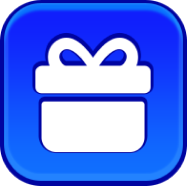
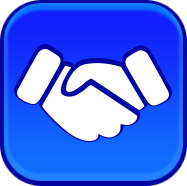
feat(de-63): new ui for spin buttons

Changed region(s): [[0.0535, 0.1613, 0.9358, 0.8333]]

diff --git a/app/src/pages/Game/components/action-buttons/InfoButtons.js b/app/src/pages/Game/components/action-buttons/InfoButtons.js
@@ -5,7 +5,7 @@ import RankButton from './RankButton';
 import configs from '../../configs/configs';
 import { fontFamilies } from '../../../../utils/styles';
 
-const { width } = configs;
+const { width, height } = configs;
 
 const px = 40;
 const buttonSize = 186;
@@ -35,12 +35,12 @@ class InfoButtons extends Phaser.GameObjects.Container {
       { sound: 'button-1' }
     );
 
-    this.referralButton = new Button(
+    this.rewardButton = new Button(
       scene,
       buttonSize / 2 + px,
       y + verticalGap,
-      'button-referral',
-      'button-referral-pressed',
+      'button-reward',
+      'button-reward-pressed',
       () => {
         if (isSimulator) return;
         this.togglePopupReward();
@@ -74,8 +74,8 @@ class InfoButtons extends Phaser.GameObjects.Container {
 
     this.badge = scene.add
       .image(
-        this.referralButton.x + this.referralButton.width / 2 - 10,
-        this.referralButton.y - this.referralButton.height / 2 + 10,
+        this.rewardButton.x + this.rewardButton.width / 2 - 10,
+        this.rewardButton.y - this.rewardButton.height / 2 + 10,
         'badge'
       )
       .setOrigin(0.5, 0.5);
@@ -84,65 +84,69 @@ class InfoButtons extends Phaser.GameObjects.Container {
       .text(this.badge.x, this.badge.y, '0', { fontFamily: fontFamilies.extraBold, fontSize: '46px', color: '#fff' })
       .setOrigin(0.5, 0.5);
 
-    this.popupReward = scene.add
-      .image(
-        this.referralButton.x - this.referralButton.width / 2,
-        this.referralButton.y - this.referralButton.height / 2,
-        'popup-reward'
-      )
-      .setOrigin(0, 0);
+    this.arrow = scene.add
+      .sprite(this.rewardButton.x, this.rewardButton.y + this.rewardButton.height / 2, 'arrow-down-gold')
+      .setOrigin(0.5, 0.5);
 
-    const centerX = this.popupReward.x + this.popupReward.width / 2;
-    const handShakeIconY = this.popupReward.y + this.popupReward.height / 2 - 100;
-    this.handShakeIcon = scene.add.image(centerX, handShakeIconY, 'hand-shake').setOrigin(0.5, 0.5);
-    this.handShakeText = scene.add
-      .text(centerX, this.handShakeIcon.y + this.handShakeIcon.height / 2 + 50, 'Referrals', {
-        fontFamily: fontFamilies.extraBold,
+    this.referralButton = new Button(
+      scene,
+      buttonSize / 2 + px,
+      y + 2 * verticalGap,
+      'button-referral',
+      'button-referral-pressed',
+      () => {
+        if (isSimulator) return;
+        this.openReferralPopup();
+      },
+      { sound: 'button-1' }
+    );
+
+    this.dailySpinButton = new Button(
+      scene,
+      buttonSize / 2 + px,
+      y + 3 * verticalGap,
+      'button-daily-spin',
+      'button-daily-spin-pressed',
+      () => {
+        if (isSimulator) return;
+        this.openDailySpinPopup();
+      },
+      { sound: 'button-1' }
+    );
+
+    this.referralText = scene.add
+      .text(this.referralButton.x + this.referralButton.width / 2 + 50, this.referralButton.y, 'Referrals', {
         fontSize: '46px',
+        fontFamily: fontFamilies.extraBold,
         color: '#fff',
       })
-      .setOrigin(0.5, 0.5);
-    this.handShakeText.setStroke('#6F0132', 10);
+      .setOrigin(0, 0.5);
 
-    this.handShakeIcon.setInteractive().on(Phaser.Input.Events.GAMEOBJECT_POINTER_DOWN, () => {
-      this.openReferralPopup();
-    });
-    this.handShakeText.setInteractive().on(Phaser.Input.Events.GAMEOBJECT_POINTER_DOWN, () => {
-      this.openReferralPopup();
-    });
-
-    this.dailySpinIcon = scene.add.image(centerX, this.handShakeText.y + 150, 'daily-spin').setOrigin(0.5, 0.5);
     this.dailySpinText = scene.add
-      .text(centerX, this.dailySpinIcon.y + this.dailySpinIcon.height / 2 + 50, 'Daily Spin', {
-        fontFamily: fontFamilies.extraBold,
+      .text(this.dailySpinButton.x + this.dailySpinButton.width / 2 + 50, this.dailySpinButton.y, 'Daily Spin', {
         fontSize: '46px',
+        fontFamily: fontFamilies.extraBold,
         color: '#fff',
       })
-      .setOrigin(0.5, 0.5);
-    this.dailySpinText.setStroke('#6F0132', 10);
+      .setOrigin(0, 0.5);
 
-    this.dailySpinIcon.setInteractive().on(Phaser.Input.Events.GAMEOBJECT_POINTER_DOWN, () => {
-      this.openDailySpinPopup();
-    });
-    this.dailySpinText.setInteractive().on(Phaser.Input.Events.GAMEOBJECT_POINTER_DOWN, () => {
-      this.openDailySpinPopup();
-    });
+    this.background = scene.add.rectangle(0, 0, width, height, 0x260343, 0.8).setOrigin(0, 0).setVisible(false);
 
     this.hideBadge();
     this.hidePopupReward();
 
-    this.add(this.popupReward);
-    this.add(this.handShakeIcon);
-    this.add(this.handShakeText);
-    this.add(this.dailySpinIcon);
-    this.add(this.dailySpinText);
-
     this.add(this.settingButton);
-    this.add(this.referralButton);
     this.add(this.rankButton);
     this.add(this.portfolioButton);
+    this.add(this.background);
+    this.add(this.rewardButton);
     this.add(this.badge);
     this.add(this.badgeText);
+    this.add(this.arrow);
+    this.add(this.referralButton);
+    this.add(this.dailySpinButton);
+    this.add(this.referralText);
+    this.add(this.dailySpinText);
 
     scene.game.events.on(events.updateBadgeNumber, ({ numberOfSpins }) => {
       if (!numberOfSpins) {
@@ -171,27 +175,25 @@ class InfoButtons extends Phaser.GameObjects.Container {
   }
 
   hidePopupReward() {
-    if (this.popupReward) {
-      this.popupReward.setVisible(false);
-      this.handShakeIcon?.setVisible(false);
-      this.handShakeText?.setVisible(false);
-      this.dailySpinIcon?.setVisible(false);
-      this.dailySpinText?.setVisible(false);
-    }
+    this.referralButton?.setVisible(false);
+    this.dailySpinButton?.setVisible(false);
+    this.referralText?.setVisible(false);
+    this.dailySpinText?.setVisible(false);
+    this.background?.setVisible(false);
+    this.arrow?.setTexture('arrow-down-gold');
   }
 
   showPopupReward() {
-    if (this.popupReward) {
-      this.popupReward.setVisible(true);
-      this.handShakeIcon?.setVisible(true);
-      this.handShakeText?.setVisible(true);
-      this.dailySpinIcon?.setVisible(true);
-      this.dailySpinText?.setVisible(true);
-    }
+    this.referralButton?.setVisible(true);
+    this.dailySpinButton?.setVisible(true);
+    this.referralText?.setVisible(true);
+    this.dailySpinText?.setVisible(true);
+    this.background?.setVisible(true);
+    this.arrow?.setTexture('arrow-up-gold');
   }
 
   togglePopupReward() {
-    if (this.popupReward?.visible) {
+    if (this.referralButton?.visible) {
       this.hidePopupReward();
     } else {
       this.showPopupReward();

diff --git a/app/src/pages/Game/scenes/LoadingScene.js b/app/src/pages/Game/scenes/LoadingScene.js
@@ -147,7 +147,6 @@ class LoadingScene extends Phaser.Scene {
     this.load.image('popup-goon-price', '/images/popup-goon-price.png');
     this.load.image('popup-spin', '/images/popup-spin.png');
     this.load.image('popup-swap', '/images/popup-swap.png');
-    this.load.image('popup-reward', '/images/popup-reward.png');
 
     this.load.image('ribbon-welcome', '/images/ribbon-welcome.png');
 
@@ -179,8 +178,6 @@ class LoadingScene extends Phaser.Scene {
     this.load.image('spin-reward-point', '/images/spin-reward-point.png');
     this.load.image('spin-reward-glow-fx', '/images/spin-reward-glow-fx.png');
     this.load.image('swap-switch-container', '/images/swap-switch-container.png');
-    this.load.image('hand-shake', '/images/hand-shake.png');
-    this.load.image('daily-spin', '/images/daily-spin.png');
 
     this.load.image('button-blue', '/images/button-blue.png');
     this.load.image('button-blue-pressed', '/images/button-blue-pressed.png');
@@ -253,6 +250,10 @@ class LoadingScene extends Phaser.Scene {
     this.load.image('button-spin-claim', '/images/button-spin-claim.png');
     this.load.image('button-spin-claim-pressed', '/images/button-spin-claim-pressed.png');
     this.load.image('button-spin-disabled', '/images/button-spin-disabled.png');
+    this.load.image('button-reward', '/images/button-reward.png');
+    this.load.image('button-reward-pressed', '/images/button-reward-pressed.png');
+    this.load.image('button-daily-spin', '/images/button-daily-spin.png');
+    this.load.image('button-daily-spin-pressed', '/images/button-daily-spin-pressed.png');
 
     this.load.image('button-buy-safehouse', '/images/button-buy-safehouse.png');
     this.load.image('button-buy-safehouse-pressed', '/images/button-buy-safehouse-pressed.png');
@@ -271,6 +272,8 @@ class LoadingScene extends Phaser.Scene {
     this.load.image('deploy-now', '/images/deploy-now.png');
     this.load.image('tooltip-next-war', '/images/tooltip-next-war.png');
     this.load.image('badge', '/images/badge.png');
+    this.load.image('arrow-down-gold', '/images/arrow-down-gold.png');
+    this.load.image('arrow-up-gold', '/images/arrow-up-gold.png');
 
     this.load.image('text-container', '/images/text-container.png');
     this.load.image('text-container-outlined', '/images/text-container-outlined.png');

diff --git a/app/src/pages/Game/scenes/MainScene.js b/app/src/pages/Game/scenes/MainScene.js
@@ -228,6 +228,7 @@ class MainScene extends Phaser.Scene {
     this.add.existing(this.popupSpinReward);
 
     this.infoButtons = new InfoButtons(this, 550);
+    this.infoButtons.setDepth(2);
     this.add.existing(this.infoButtons);
     this.game.events.on('update-user-away-reward', ({ showWarPopup, claimableReward }) => {
       this.popupWelcome = showWarPopup
